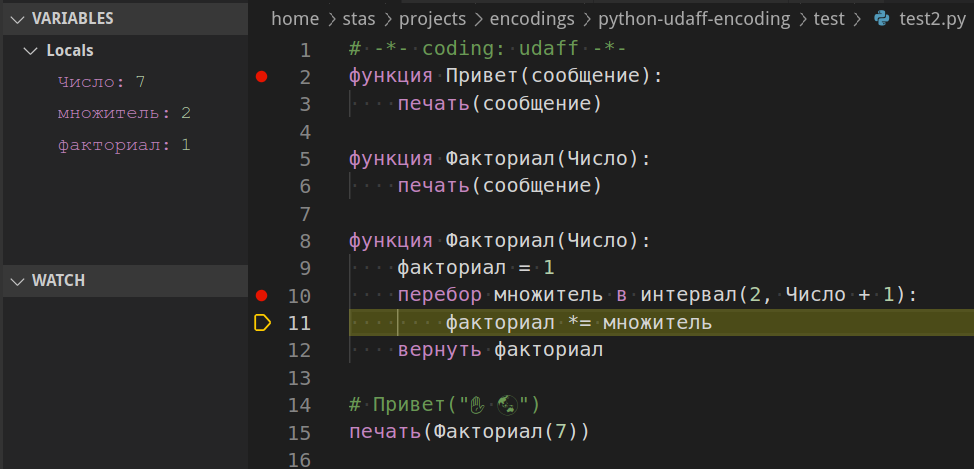
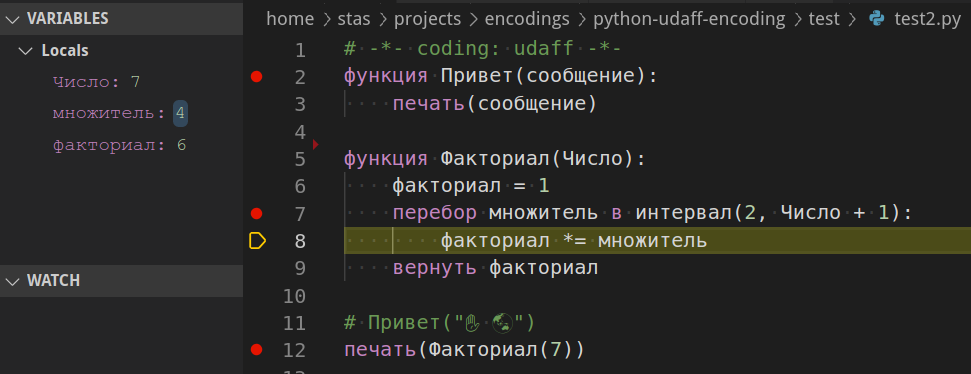
fix README

diff --git a/test/test2.py b/test/test2.py
@@ -3,9 +3,6 @@
     печать(сообщение)
 
 функция Факториал(Число):
-    печать(сообщение)
-
-функция Факториал(Число):
     факториал = 1
     перебор множитель в интервал(2, Число + 1):
         факториал *= множитель

diff --git a/README.md b/README.md
@@ -46,7 +46,7 @@
 А обучающийся имеет полную возможность, по мере изучения, постепенно заменить «русские аналоги» их оригинальными ключевыми словами, и с улыбкой (но без ненависти) забыть свои самые первые программы.
 
 ![Пример отладки «факториала](pictures/factorial.png "Пример отладки «факториала")
-
+ 
 Лично я (Стас Фомин), не считаю, что это необходимо. На мой взгляд лучше таки выучить эти пару десятков ключевых слов Python на английском, и отсеять «электорат» с уровнем IQ меньше веса.  
 Но идя путем «выбора меньшего зла» (_toss a coin to…_), я уверен, что этот подход лучше изобретения кривых велосипедов от скучающих преподавателей, которые будут калечить поколения школьников и студентов. Т.е. я был бы рад,
 если все это не пригодилось при обучении, но при встрече с изобретателем очередного «национального языка», у меня будет куда его конструктивно послать.
@@ -96,8 +96,8 @@ sudo pip3 install udaff-encoding
 
 ## Проблемка
 
-Сейчас нельзя напрямую запустить или начать отлаживать файл с такой кодировкой.
-Будет ругаццо:
+Сейчас нельзя напрямую запустить отлаживать файл с такой кодировкой.
+Будет ругаццо: 
 ```
 SyntaxError: encoding problem: udaff
 ```
@@ -107,8 +107,9 @@ SyntaxError: encoding problem: udaff
 $ cat proxy.py
 import test2
 ```
+Его уже можно чем угодно запускать.
 
-Его уже можно чем угодно запускать и отлаживать.
+Но кстати, отладке под Visual Studio Code это не мешает — можно запускать и отлаживать прямо из редактора.
 
 Еще что-то как-то глючит под Anaconda в Windows, нет времени разбираться.
 
